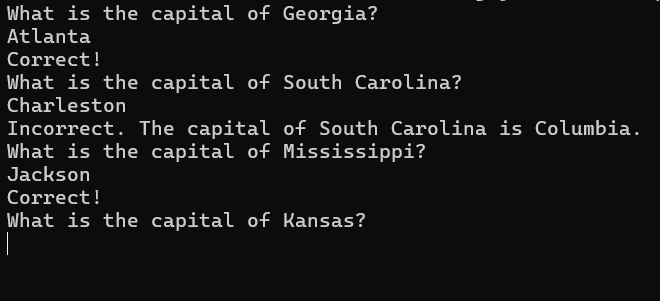
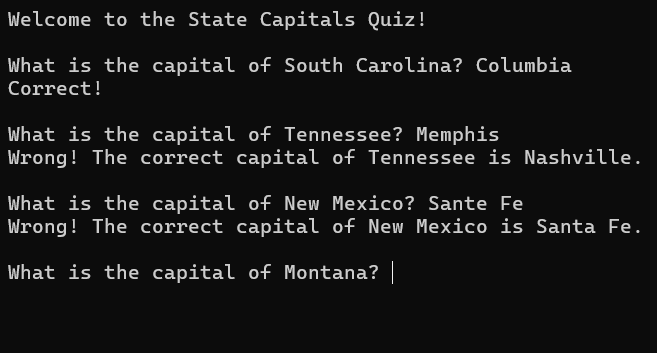
older python branch

Changed region(s): [[0.0, 0.3289, 0.9741, 0.8073], [0.0, 0.0, 0.8828, 0.299]]

diff --git a/state_capitals_mysql.py b/state_capitals_mysql.py
@@ -1,0 +1,79 @@
+# 20240802 SMW
+# save state capital data into a mysql table
+# then quize user on state capitals
+# .csv file must be at C:\\ProgramData\\MySQL\\MySQL Server 9.0\\Uploads\\state_capitals.csv
+import random
+import json
+import os
+import mysql.connector
+import configparser
+
+# connect to mysql db
+def connect_to_mysql():
+    config = configparser.ConfigParser()
+    config.read('C:\\ProgramData\\MySQL\\MySQL Server 9.0\\mypw.ini')
+    db_host = "localhost"
+    db_name = "state_capitals"
+    db_user = "root"
+    db_password = config['client']['password']
+
+    # connect to mysql db. show error if it fails to connect
+    try:
+        connection = mysql.connector.connect(
+            host=db_host,
+            database=db_name,
+            user=db_user,
+            password=db_password
+        )
+        cursor = connection.cursor()
+    except mysql.connector.Error as err:
+        print("Error connecting to database:", err)
+        exit()
+    return cursor, connection
+
+# define a function to initialize data in mysql
+def initialize_data(cursor, connection):
+    # check if table exists
+    cursor.execute(f"SHOW TABLES LIKE 'states'")
+    table_exists = cursor.fetchone() is not None
+    # table exists, no action needed
+    if table_exists:
+        table_exists = 1
+
+    # create table if it does not exist. import data from .csv file
+    else:
+        table_exists = 0
+        cursor.execute(f"CREATE TABLE IF NOT EXISTS states (name VARCHAR(50), capital VARCHAR(50))")
+        cursor.execute(f"LOAD DATA INFILE 'C:\\ProgramData\\MySQL\\MySQL Server 9.0\\Uploads\\state_capitals.csv' INTO TABLE states FIELDS TERMINATED BY ',' LINES TERMINATED BY '\n' IGNORE 1 ROWS;")
+        connection.commit()
+
+# ask for capital of random states
+def quiz_user(cursor):
+    #get data from mysql db and save to dictionary "state_capitals"
+    cursor.execute("SELECT name, capital FROM states")   #get from mysqldb
+    results = cursor.fetchall()                          #save data to results variable
+    state_capitals = {}                                  #initialize dictionary state_capitals
+    for column in results:
+        state_capitals[column[0]] = column[1]
+    states = list(state_capitals.keys())
+
+    # intro message
+    os.system('cls')
+    print("\nWelcome to the State Capitals Quiz!\n")
+
+    # Shuffle the order of states to make the quiz more interesting
+    random.shuffle(states)
+    for state in states:
+        user_answer = input(f"What is the capital of {state}? ").strip()
+        correct_answer = state_capitals[state]
+
+        if user_answer.lower() == correct_answer.lower():
+            print("Correct!\n")
+        else:
+            print(f"Wrong! The correct capital of {state} is {correct_answer}.\n")
+
+### main ###
+if __name__ == "__main__":
+    cursor, connection = connect_to_mysql()
+    initialize_data(cursor, connection)
+    quiz_user(cursor)

diff --git a/state_capitals_local.py b/state_capitals_local.py
@@ -1,0 +1,31 @@
+import random
+import json
+import os
+
+# Get the script's directory path
+script_dir = os.path.dirname(__file__)
+
+# Load state capitals data from the JSON file
+with open(os.path.join(script_dir, "state_capitals.json"), 'r') as file:
+    state_capitals = json.load(file)
+
+def quiz_user():
+    states = list(state_capitals.keys())
+
+    # Shuffle the order of states to make the quiz more interesting
+    random.shuffle(states)
+
+    for state in states:
+        user_answer = input(f"What is the capital of {state}? ").strip()
+        correct_answer = state_capitals[state]
+
+        if user_answer.lower() == correct_answer.lower():
+            print("Correct!\n")
+        else:
+            print(f"Wrong! The correct capital of {state} is {correct_answer}.\n")
+
+### main ###
+if __name__ == "__main__":
+    os.system('cls')
+    print("\nWelcome to the State Capitals Quiz!\n")
+    quiz_user()

diff --git a/README.md b/README.md
@@ -1,5 +1,10 @@
-![Screenshot](https://github.com/timeblade0/StateCapitalQuizJava/blob/main/screenshot.PNG)
+![Screenshot](https://github.com/timeblade0/state_capital_quiz_python/blob/main/screenshot.PNG)
 
-# State Capital Quiz Java
-- Quiz the user on random state capitals.
-- Runs in a terminal and does not need GUI
+# State Capital Quiz
+- This script will import all state capitals from a mysql db into python.
+- Quiz the user on random state capitals."
+- This file can only be uploaded into mysql from this location:
+  - C:\ProgramData\MySQL\MySQL Server 9.0\Uploads\state_capitals.csv
+  - copy state_capitals.csv to that location before running the python script
+- In mysql, this command can be used to import the csv file into mysql
+  - LOAD DATA INFILE 'C:\\ProgramData\\MySQL\\MySQL Server 9.0\\Uploads\\state_capitals.csv' INTO TABLE states FIELDS TERMINATED BY ',' LINES TERMINATED BY '\n' IGNORE 1 ROWS;
